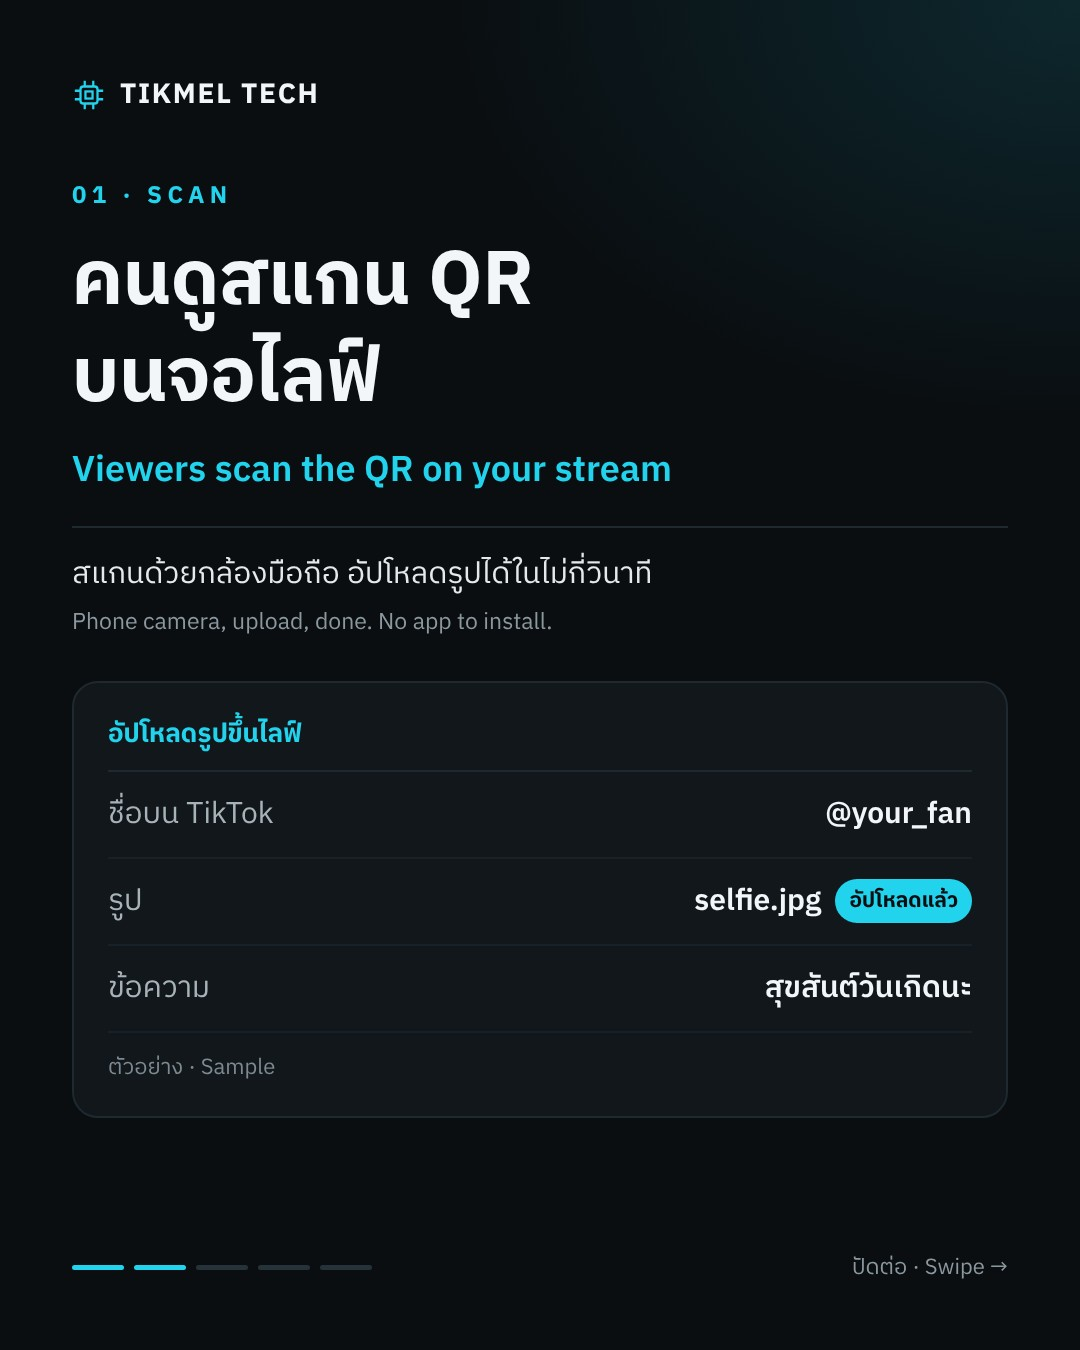
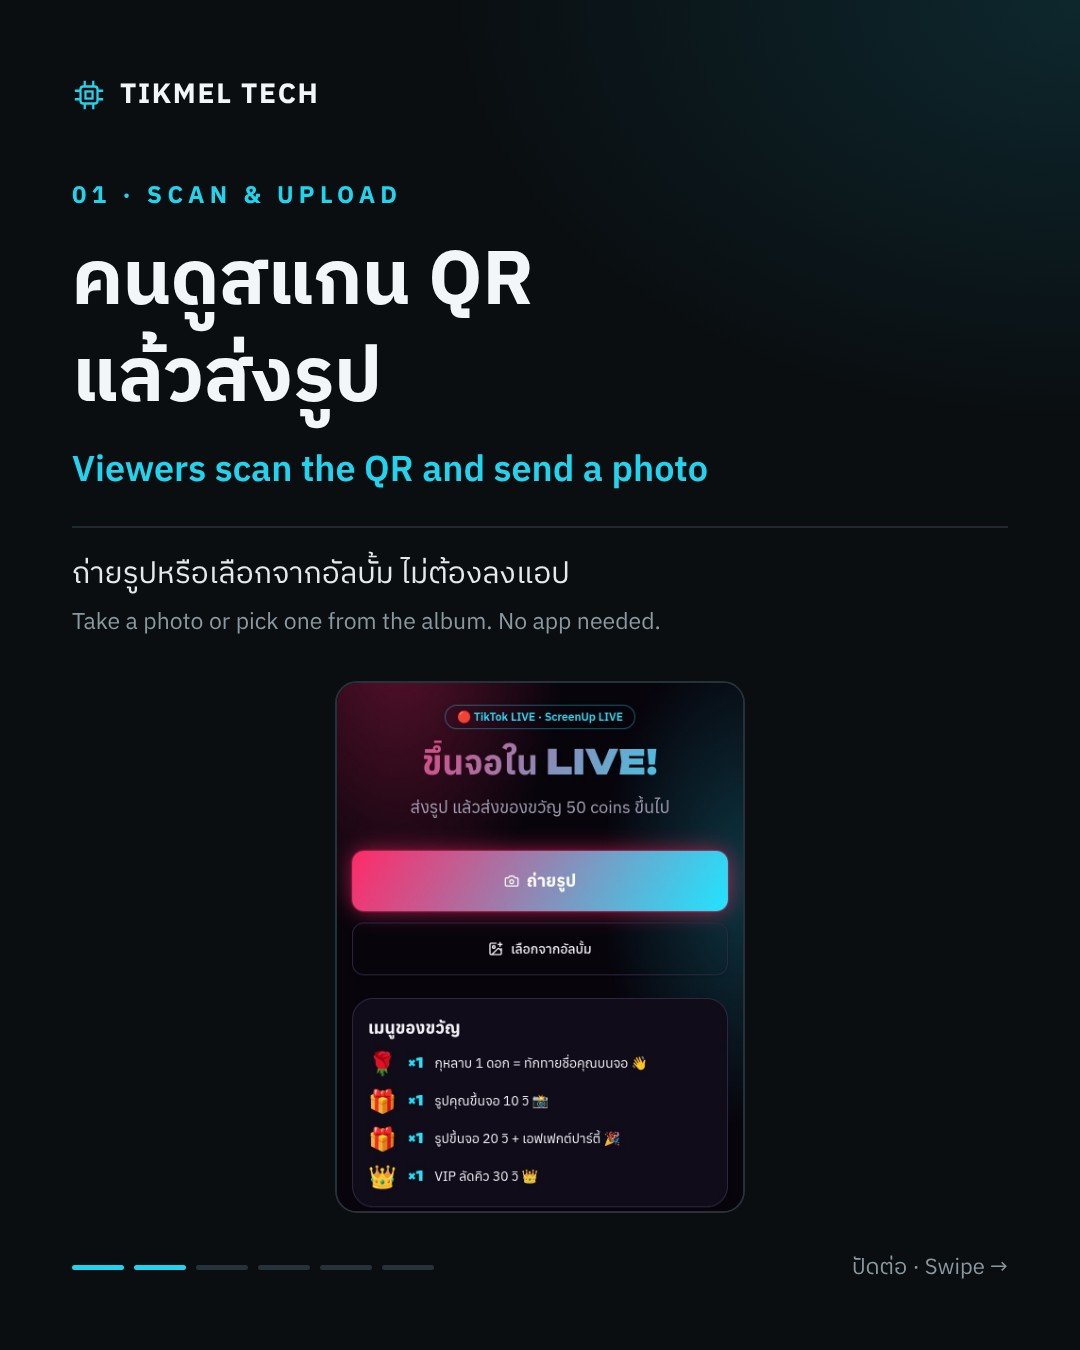
TikTok guide carousel with real ScreenUp screenshots (QR and private URLs blurred)
Claude-Session: https://claude.ai/code/session_016uP9BNKCpKFRJuaZbHgzt7

diff --git a/design/render_guide.py b/design/render_guide.py
@@ -87,8 +87,8 @@ h1{{font-size:{s.get("size",76)}px;line-height:1.28;font-weight:700;margin-top:1
 .b{{font-size:29px;padding:16px 26px;border-radius:26px;border-bottom-right-radius:8px;background:#11171B;
  border:2px solid #1E2930}}
 .b:first-child{{border-color:{PINK}}}
-.photo{{flex:1;min-height:0;border-radius:26px;overflow:hidden;border:2px solid #1E2930}}
-.photo img{{width:100%;height:100%;object-fit:cover;display:block}}
+.photo{{flex:1;min-height:0;display:flex;justify-content:center;align-items:flex-start}}
+.photo img{{max-width:100%;max-height:100%;border-radius:22px;border:2px solid #263139;display:block}}
 .prog{{display:flex;align-items:center;gap:10px;margin-top:36px}}
 .bar{{width:52px;height:5px;border-radius:3px;background:#26323A}} .bar.on{{background:{CYAN}}}
 .swipe{{margin-left:auto;font-size:22px;color:#8B989F}}
